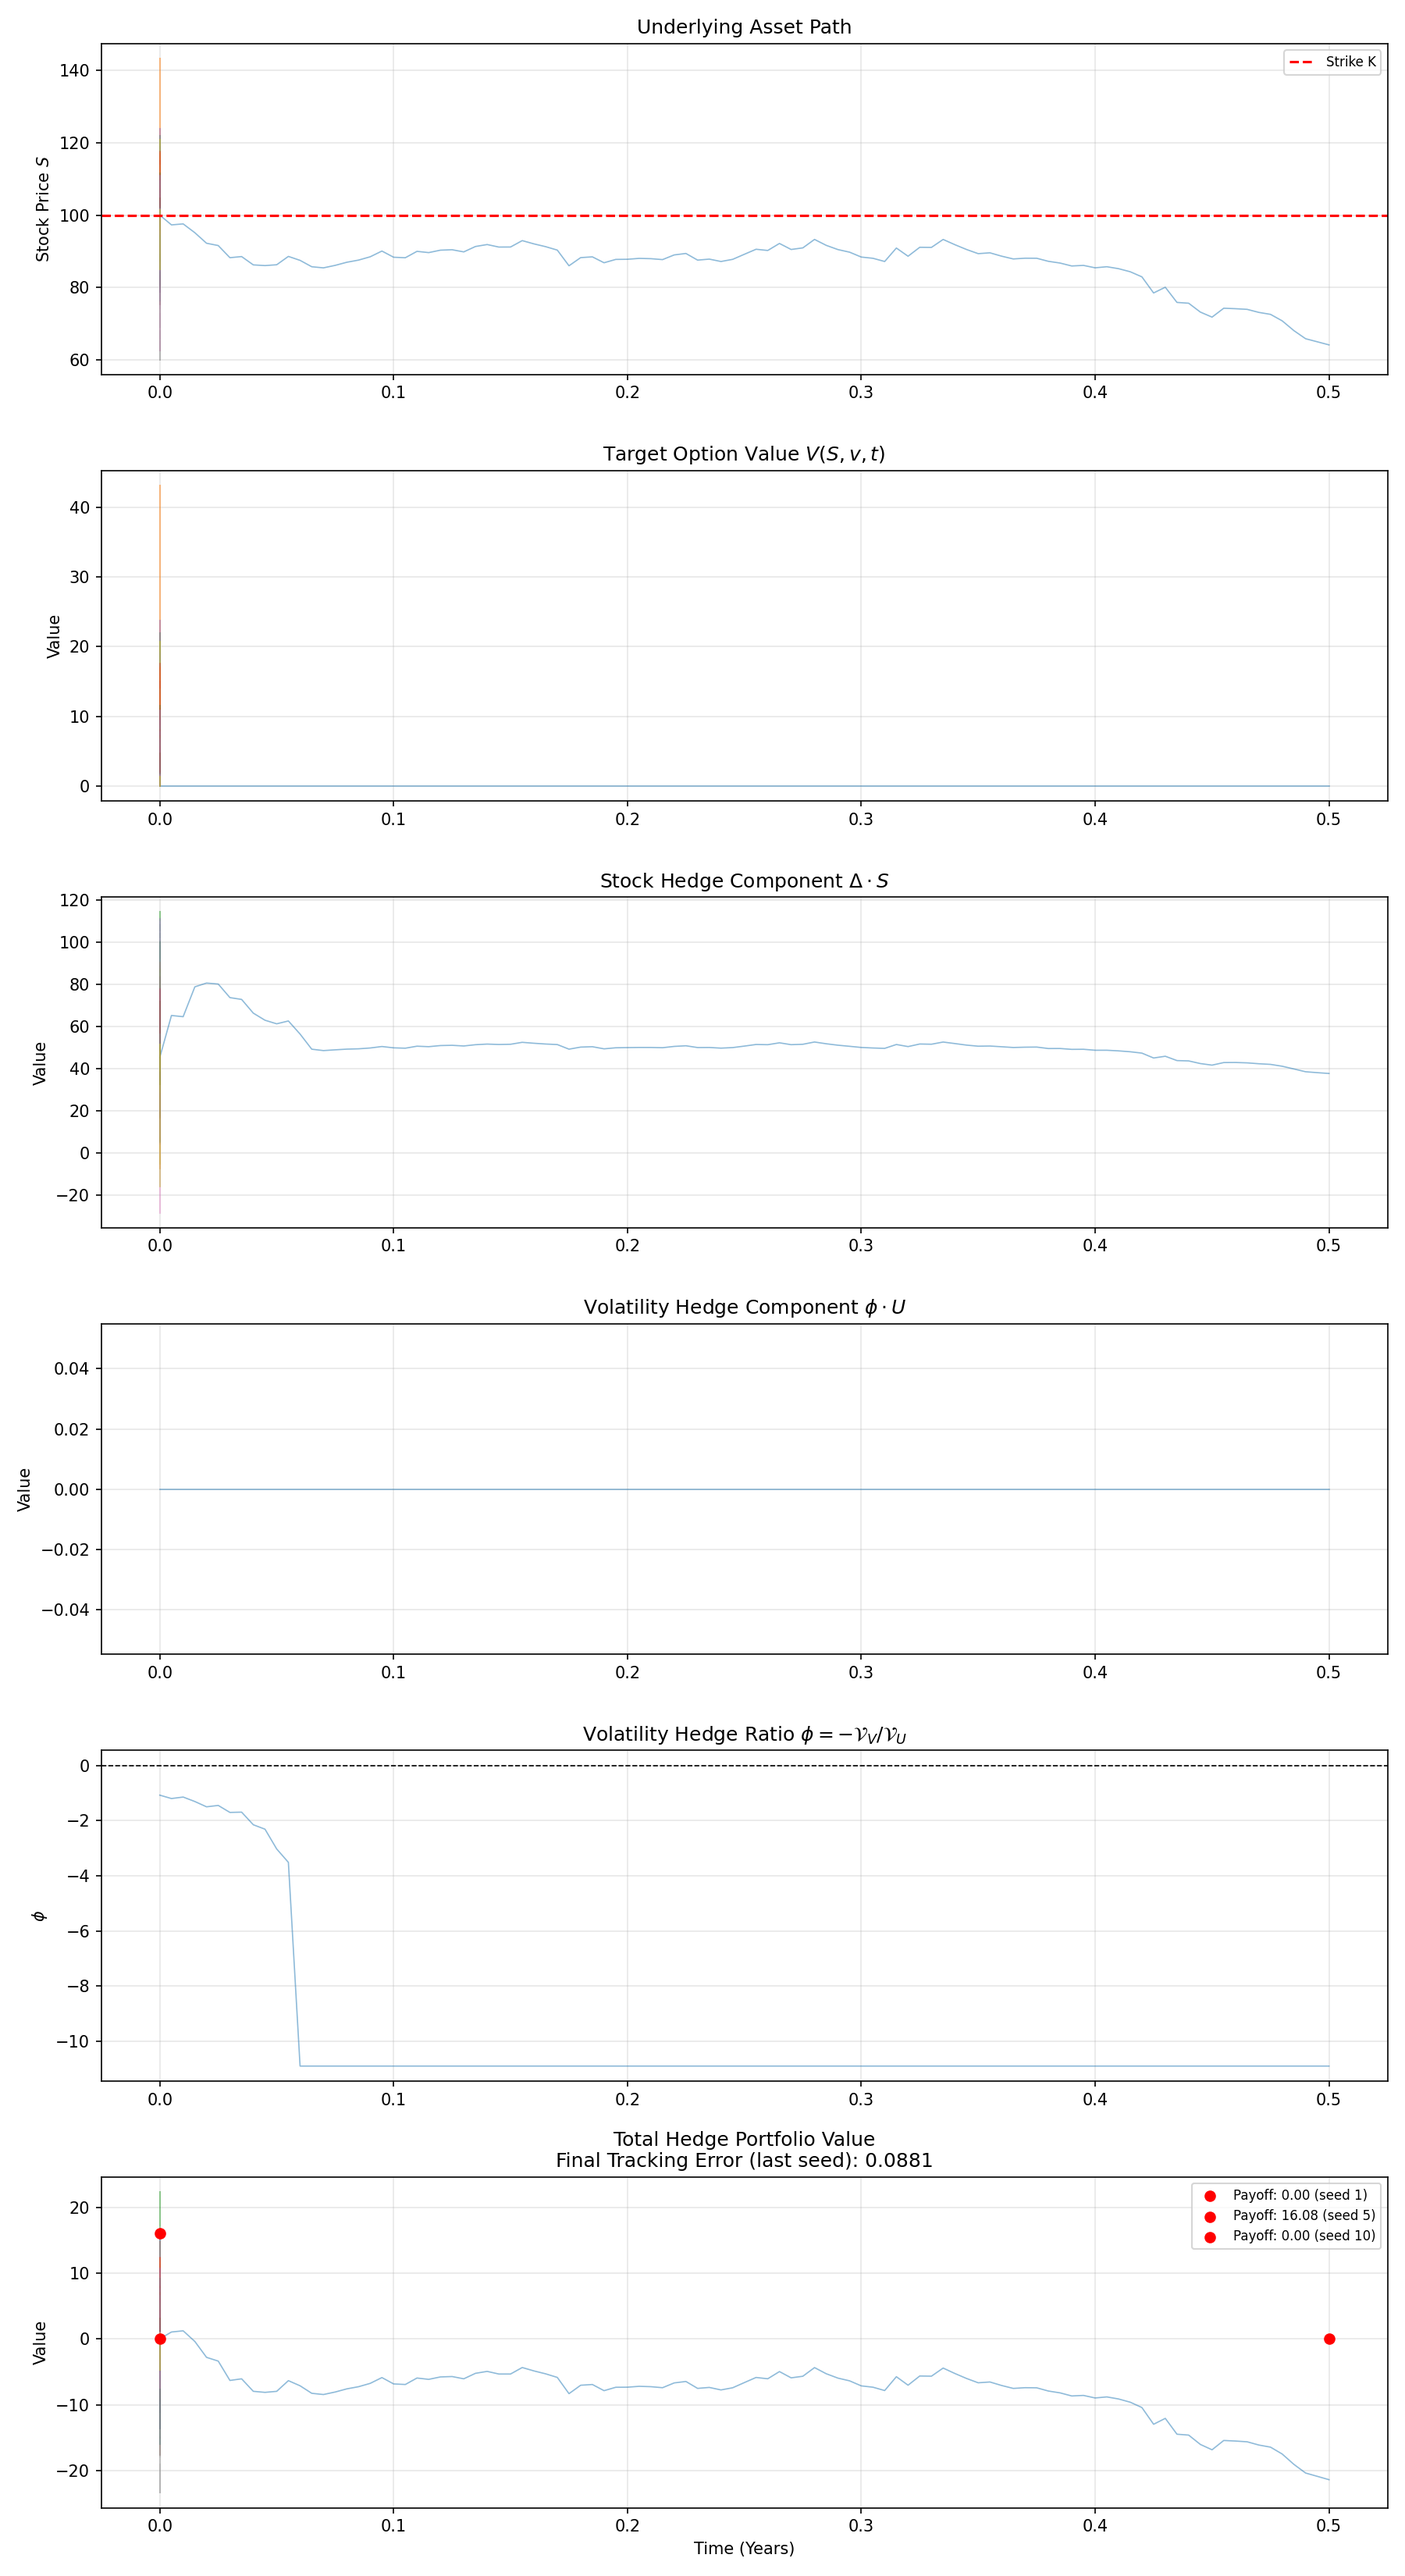
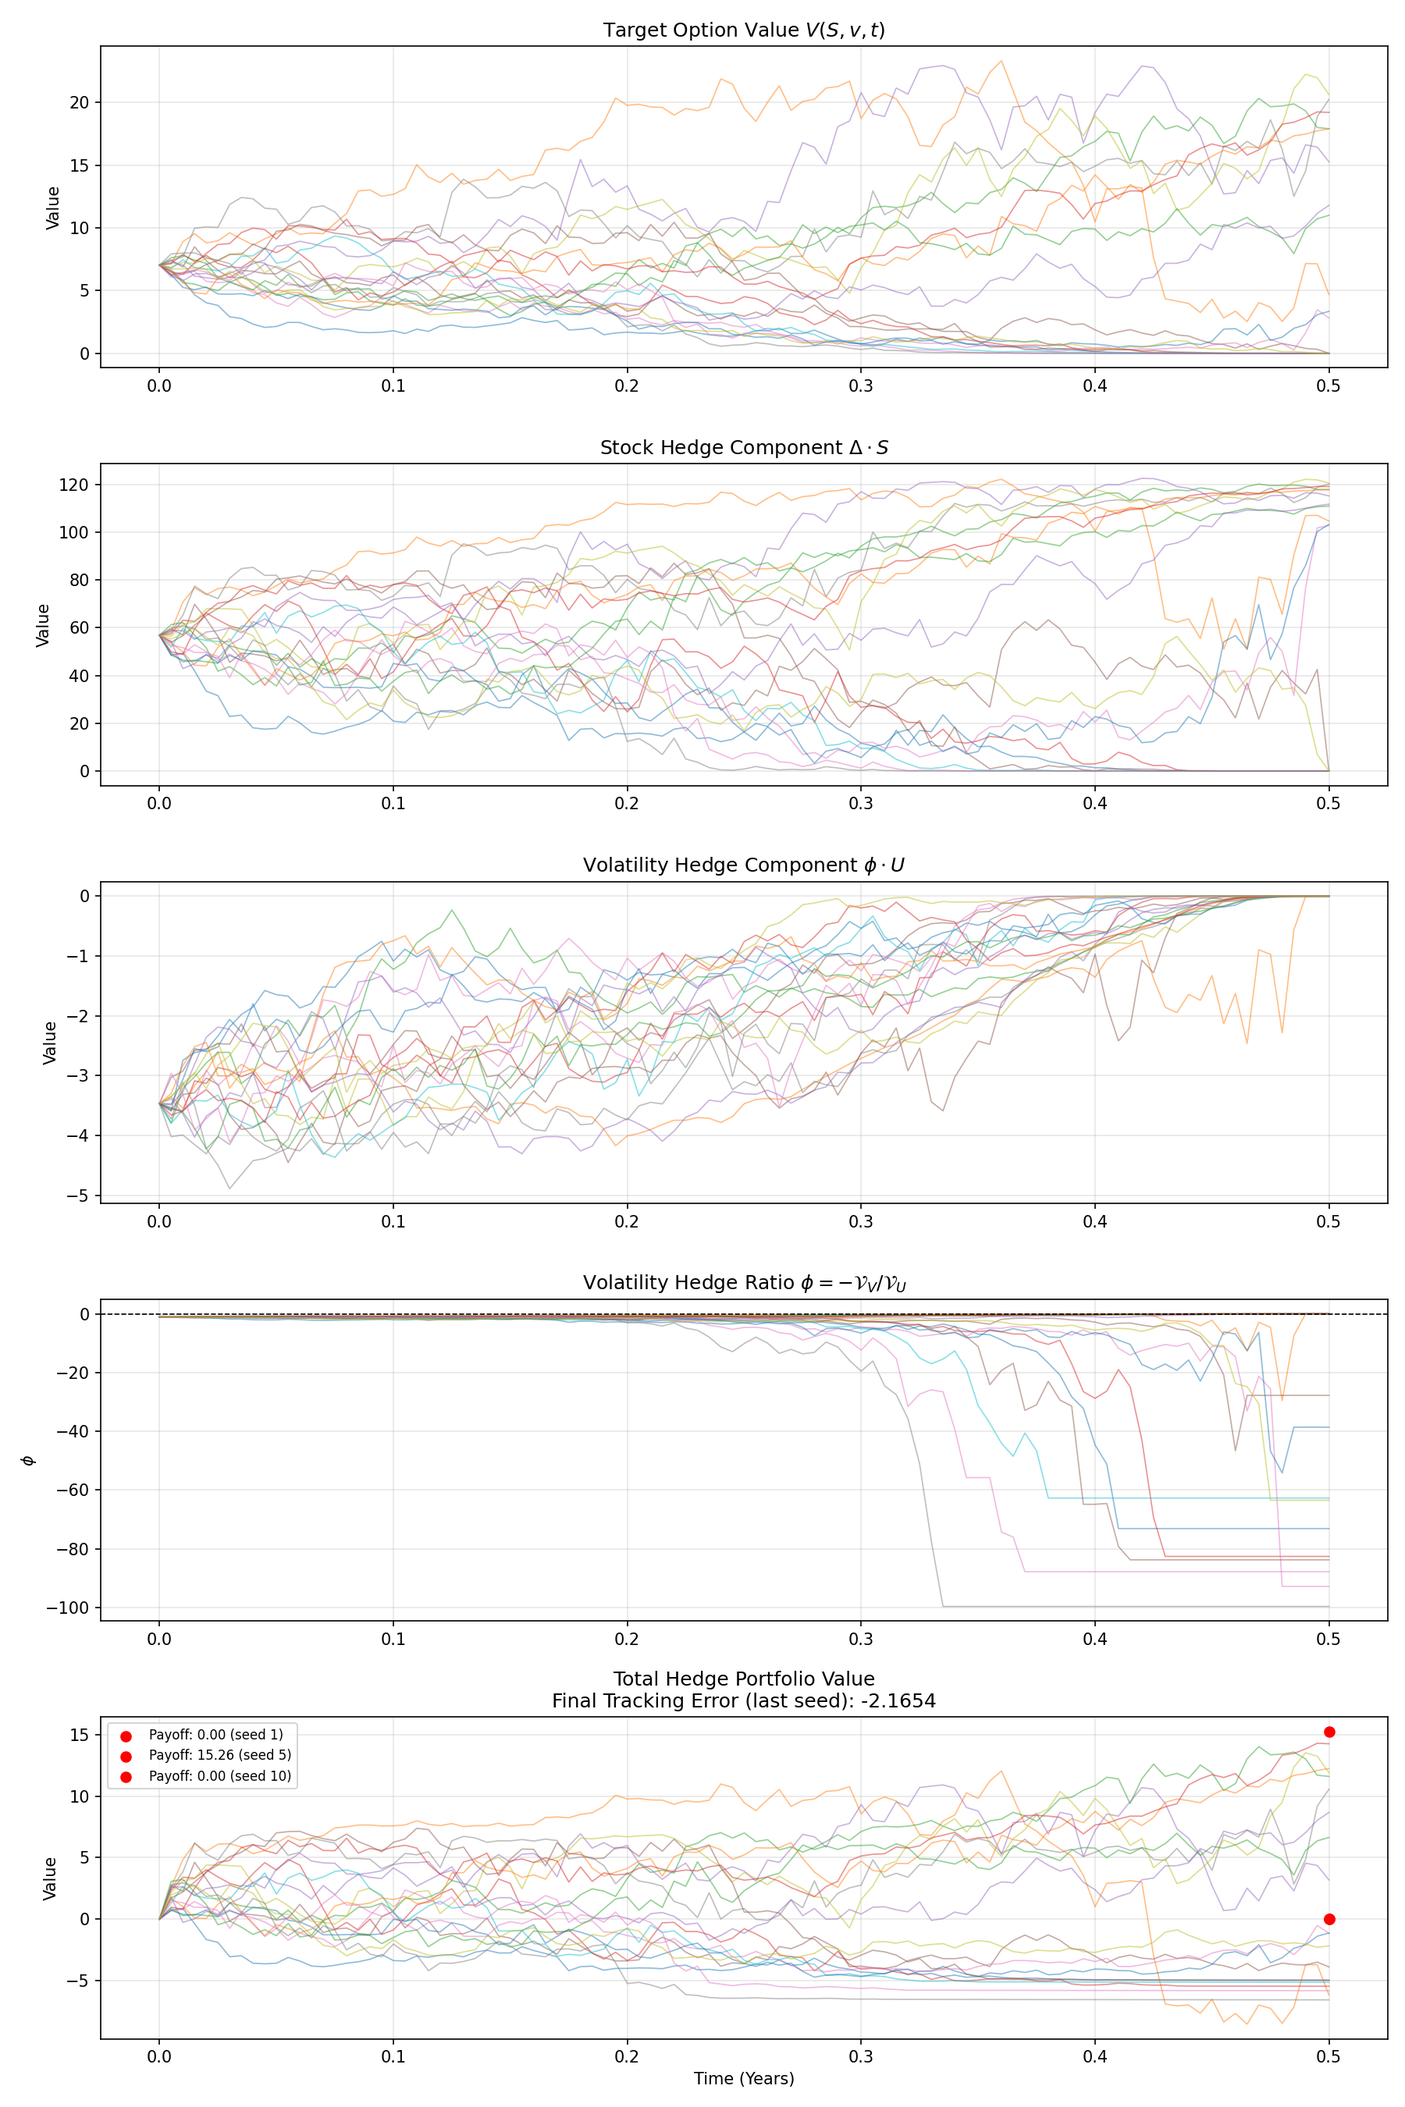
added function options

diff --git a/Heston_plots_class.py b/Heston_plots_class.py
@@ -152,7 +152,7 @@ class HestonPlots:
 
         return t_grid, S, v, deltas, portfolio_value
 
-    def simulate_delta_vega_hedging(self, simulator, seed, rehedge_steps):
+    def delta_vega_hedging(self, simulator, seed, rehedge_steps):
         """
         Simulates a delta-vega-hedged path for a Short Call position.
         Implements the full Heston hedging portfolio: Pi = V + Delta*S + phi*U
@@ -367,16 +367,21 @@ class HestonPlots:
 
         return t_grid, S, v, deltas, phis, portfolio_value
 
-    def plot_hedging_trajectory(self, simulator, N_paths, seed):
+    def plot_hedging_trajectory(self, simulator, N_paths, seed, control_var):
         seeds = [x for x in range(1, 20)]
         
-        fig, axes = plt.subplots(6, 1, figsize=(12, 22))
-        ax1, ax2, ax3, ax4, ax5, ax6 = axes
+        fig, axes = plt.subplots(5, 1, figsize=(12, 18))
+        ax2, ax3, ax4, ax5, ax6 = axes
 
         for seed in seeds:
-            t, S, v, deltas, phis, port_val = self.CV_delta_vega_hedging(
+            if(control_var):
+                t, S, v, deltas, phis, port_val = self.CV_delta_vega_hedging(
                 simulator, N_paths, seed=seed, rehedge_steps=1
-            )
+                )
+            else:
+                t, S, v, deltas, phis, port_val = self.delta_vega_hedging(
+                    simulator, seed=seed, rehedge_steps=1
+                )
             # Compute portfolio components at each timestep
             V = np.array([
                 simulator.get_bs_price(S[i], simulator.params.tau - t[i], vol_proxy=np.sqrt(v[i]), strike = None)
@@ -397,7 +402,7 @@ class HestonPlots:
             lw = 0.8
 
             # --- Plot each component ---
-            ax1.plot(t, S, alpha=alpha, linewidth=lw)
+            #ax1.plot(t, S, alpha=alpha, linewidth=lw)
             ax2.plot(t, V, alpha=alpha, linewidth=lw)
             ax3.plot(t, delta_S, alpha=alpha, linewidth=lw)
             ax4.plot(t, phi_U, alpha=alpha, linewidth=lw)
@@ -411,11 +416,11 @@ class HestonPlots:
                 )
 
         # 1. Stock Price
-        ax1.axhline(simulator.params.K, color='r', linestyle='--', label='Strike K')
-        ax1.set_ylabel('Stock Price $S$')
-        ax1.set_title('Underlying Asset Path')
-        ax1.legend(fontsize=8)
-        ax1.grid(True, alpha=0.3)
+        # ax1.axhline(simulator.params.K, color='r', linestyle='--', label='Strike K')
+        # ax1.set_ylabel('Stock Price $S$')
+        # ax1.set_title('Underlying Asset Path')
+        # ax1.legend(fontsize=8)
+        # ax1.grid(True, alpha=0.3)
 
         # 2. Option V (target option liability)
         ax2.set_ylabel('Value')

diff --git a/main.py b/main.py
@@ -110,5 +110,5 @@ if __name__ == "__main__":
     path_counts = [100, 500, 1000, 2000, 3500, 5000]
     plotter.convergence_study(simulator,path_counts, simulator.params.analytical_delta, seed=42)
     
-    plotter.plot_hedging_trajectory(simulator,10,seed=123)
+    plotter.plot_hedging_trajectory(simulator,10,seed=123,control_var=False)
 
